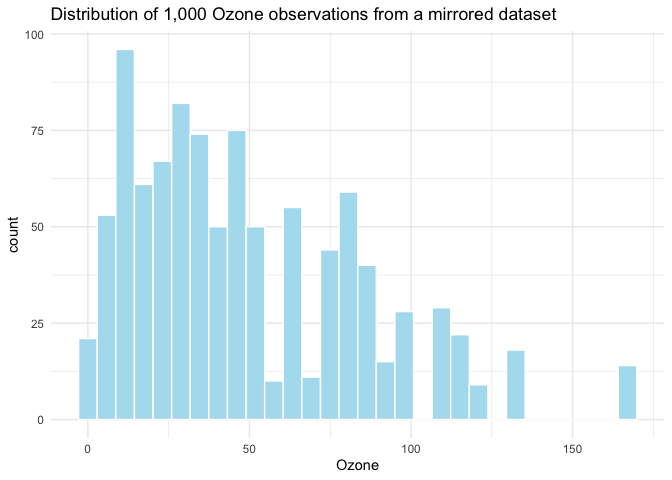
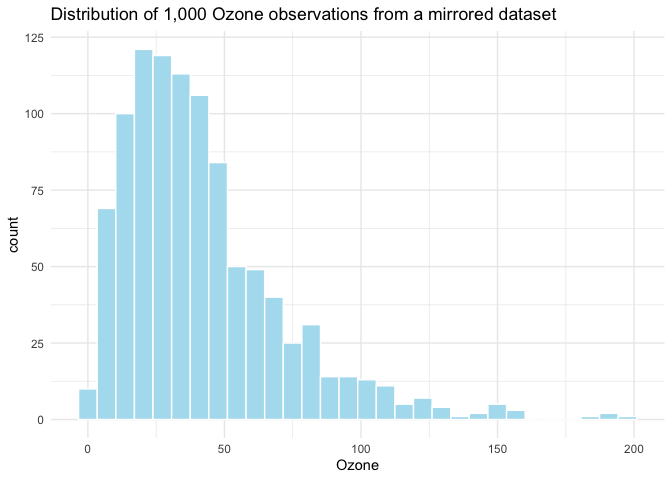
version 2.2.0

diff --git a/README.md b/README.md
@@ -35,22 +35,25 @@ You can install the development version of dfmirroR from
 devtools::install_github("jacobpstein/dfmirroR")
 #> 
 #> ── R CMD build ─────────────────────────────────────────────────────────────────
-#> * checking for file ‘/private/var/folders/5m/kgrgm7ns0q10f7dp56dv4ylm0000gn/T/RtmpPA5DAX/remotes62227c0e005b/jacobpstein-dfmirroR-3c8ca46/DESCRIPTION’ ... OK
-#> * preparing ‘dfmirroR’:
-#> * checking DESCRIPTION meta-information ... OK
-#> * checking for LF line-endings in source and make files and shell scripts
-#> * checking for empty or unneeded directories
-#> * building ‘dfmirroR_2.1.0.tar.gz’
+#>      checking for file ‘/private/var/folders/5m/kgrgm7ns0q10f7dp56dv4ylm0000gn/T/Rtmp2LlCq7/remotesb525b8e198f/jacobpstein-dfmirroR-b42847a/DESCRIPTION’ ...  ✔  checking for file ‘/private/var/folders/5m/kgrgm7ns0q10f7dp56dv4ylm0000gn/T/Rtmp2LlCq7/remotesb525b8e198f/jacobpstein-dfmirroR-b42847a/DESCRIPTION’
+#>   ─  preparing ‘dfmirroR’:
+#> ✔  checking DESCRIPTION meta-information
+#>   ─  checking for LF line-endings in source and make files and shell scripts
+#>   ─  checking for empty or unneeded directories
+#>   ─  building ‘dfmirroR_2.2.0.tar.gz’
+#>      
+#> 
 ```
 
 You can install also the CRAN version of the package, but it’s not as
-good as the development version:
+good as the development version and some features need to be submitted
+still:
 
 ``` r
-install.packages("dfmirroR")
+install.packages("dfmirroR", repos = "http://cran.us.r-project.org")
 #> 
 #> The downloaded binary packages are in
-#>  /var/folders/5m/kgrgm7ns0q10f7dp56dv4ylm0000gn/T//RtmpPA5DAX/downloaded_packages
+#>  /var/folders/5m/kgrgm7ns0q10f7dp56dv4ylm0000gn/T//Rtmp2LlCq7/downloaded_packages
 ```
 
 ## Example
@@ -123,7 +126,7 @@ shareable output.
 
 cat(air_mirror$code)
 #> simulated_df <- data.frame(
-#>   Ozone = sample(c(41, 36, 12, 18, NA, 28, 23, 19, 8, 7, 16, 11, 14, 34, 6, 30, 1, 4, 32, 45, 115, 37, 29, 71, 39, 21, 20, 13, 135, 49, 64, 40, 77, 97, 85, 10, 27, 48, 35, 61, 79, 63, 80, 108, 52, 82, 50, 59, 9, 78, 66, 122, 89, 110, 44, 65, 22, 31, 168, 73, 76, 118, 84, 96, 91, 47, 24, 46), 1000, replace = TRUE),
+#>   Ozone = simulate_skewed_gamma(input_df[['Ozone']], 1000),
 #>   Wind = rnorm(1000, mean = 9.95751633986928, sd = 3.51146940195185)
 #> )
 ```

diff --git a/NEWS.md b/NEWS.md
@@ -1,3 +1,5 @@
+# dfmirroR 2.2.0
+
 # dfmirroR 2.1.0
 
 # dfmirroR 2.0.0
